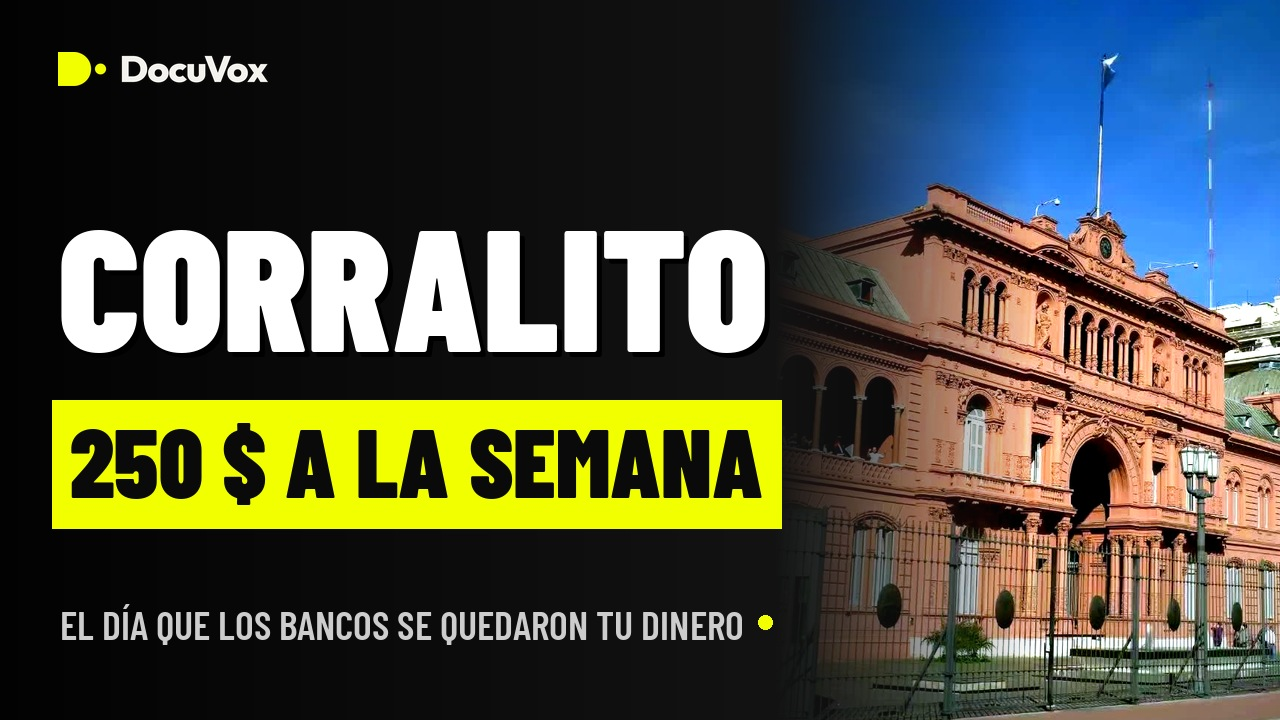
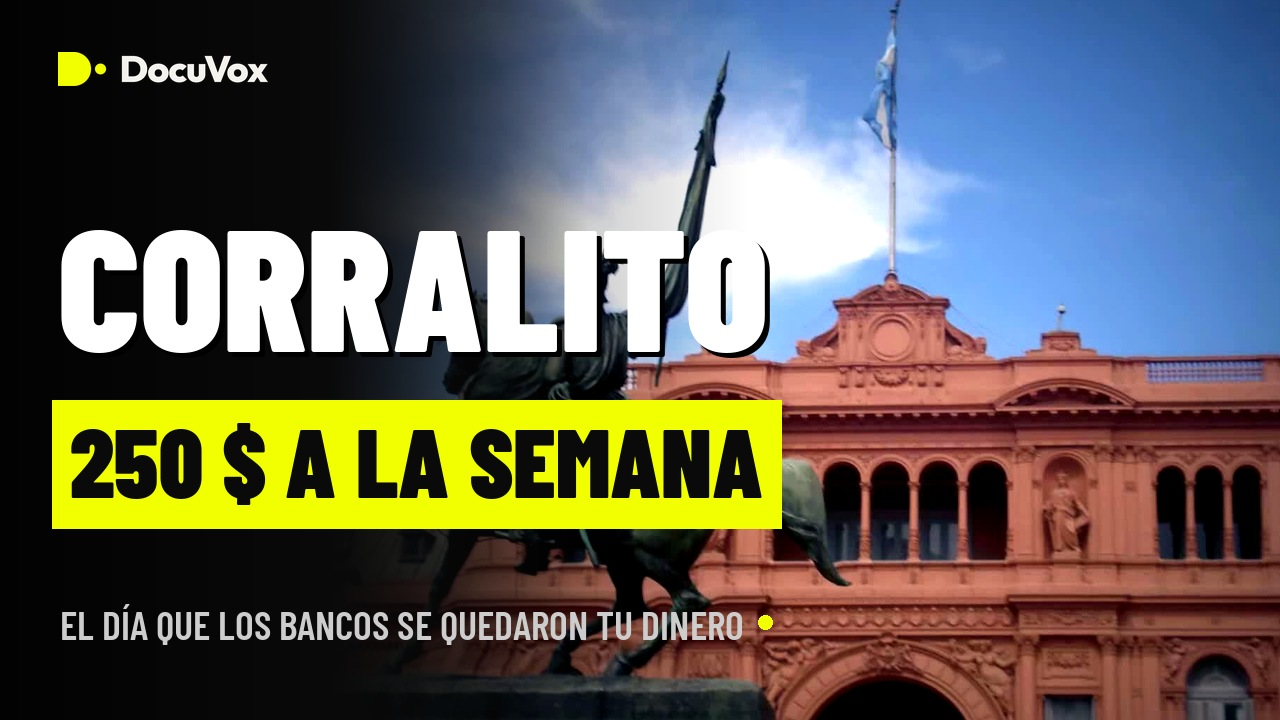
corralito: miniaturas finales (A con foto CC BY 2.0), paquete de publicación
Claude-Session: https://claude.ai/code/session_0114897aCysoTv45GBNQA442

diff --git a/jobs/corralito/paquete.py b/jobs/corralito/paquete.py
@@ -61,7 +61,7 @@ if len(desc) > 4950:   # límite de YouTube: créditos completos en el comentari
 com = '¿Tu familia vivió el corralito, o lo recuerdas de las noticias? Y si estás en España: ¿crees que algo así podría pasar aquí? Te leemos 👇\n\nCréditos de imagen (autor y licencia):\n' + '\n'.join(compact(l) for l in cred)
 com = com[:9800]
 
-pod = f"""1 de diciembre de 2001: Argentina descubre que solo puede sacar 250 pesos a la semana de su propia cuenta. Del uno a uno de Cavallo al Decreto 1570, de los cacerolazos al helicóptero de De la Rúa, de los cinco presidentes en dos semanas a la pesificación, el contagio a Uruguay y la gran pregunta: ¿podría pasar en España? Chipre, Grecia, las preferentes, el Banco Popular y el Fondo de Garantía de Depósitos. Documental sonoro de 45 minutos.
+pod = f"""1 de diciembre de 2001: Argentina descubre que solo puede sacar 250 pesos a la semana de su propia cuenta. Del uno a uno de Cavallo al Decreto 1570, de los cacerolazos al helicóptero de De la Rúa, de los cinco presidentes en dos semanas a la pesificación, el contagio a Uruguay y la gran pregunta: ¿podría pasar en España? Chipre, Grecia, las preferentes, el Banco Popular y el Fondo de Garantía de Depósitos. Documental sonoro de 44 minutos.
 
 {caps}
 

diff --git a/jobs/corralito/shorts.py b/jobs/corralito/shorts.py
@@ -107,7 +107,7 @@ def make(mp4, subs, out_dir, k, s, plat):
         p = f'{wd}/s{q}.png'; text_png(p, tx, 62, (255, 255, 255)); inputs += ['-loop', '1', '-i', p]
         chain += f";[{last}][{n}:v]overlay=0:0:enable='between(t,{a:.2f},{z:.2f})':shortest=1[w{q}]"; last = f'w{q}'; n += 1
     chain += f';[{last}]fade=t=out:st={dur - 0.6:.2f}:d=0.6,format=yuv420p[vout];[0:a]afade=t=in:st=0:d=0.3,afade=t=out:st={dur - 0.7:.2f}:d=0.7[aout]'
-    out = os.path.join(out_dir, f"crisis2008_short_{k + 1}_{plat}.mp4")
+    out = os.path.join(out_dir, f"corralito_short_{k + 1}_{plat}.mp4")
     subprocess.run(['ffmpeg', '-y', '-loglevel', 'error'] + inputs + ['-filter_complex', chain, '-map', '[vout]', '-map', '[aout]', '-t', f'{dur:.2f}',
                     '-c:v', 'libx264', '-preset', 'veryfast', '-crf', '21', '-r', '30', '-c:a', 'aac', '-b:a', '160k', '-movflags', '+faststart', out], check=True)
     return out

diff --git a/jobs/corralito/youtube.md b/jobs/corralito/youtube.md
@@ -1,0 +1,117 @@
+# El corralito argentino · paquete de YouTube
+
+**Título (recomendado):** El corralito argentino: el día que los bancos se quedaron tu dinero (¿podría pasar en España?)  (94 caracteres)
+**Alternativas A/B:** Corralito: el día que Argentina no pudo sacar su dinero del banco (¿y en España?) · Corralito 2001: 250 pesos a la semana, cinco presidentes y un helicóptero
+
+**Etiquetas** (445 caracteres): corralito, corralito argentina, corralito 2001, crisis argentina 2001, crisis de 2001, historia argentina, de la rua helicoptero, domingo cavallo, uno a uno, convertibilidad, 19 y 20 de diciembre, cacerolazo, pesificacion, corralon, duhalde, plan bonex, crisis bancaria uruguay 2002, corralito españa, puede haber un corralito en españa, fondo de garantia de depositos, preferentes, banco popular, chipre corralito, grecia corralito, crisis economica, documental, docuvox
+
+**Ajustes:** Educación · Español (España) · no creado para niños · sin promoción pagada · Uso de IA: No (escenas IA en grabado, no realistas) · capítulos automáticos desactivados · subtítulos corralito.srt · pantalla final 1 vídeo + suscribirse · prueba A/B de miniatura (A Casa Rosada · B De la Rúa)
+
+**Estudio de palabras clave (vidIQ):** corralito 19.962 búsquedas/mes (competencia baja, puntuación 63) · corralito argentina 8.883 (baja, 65) · historia argentina 17.184 (media) · cavallo 6.747 · crisis económica 6.586
+
+## Descripción (2071 caracteres)
+
+1 de diciembre de 2001. Argentina se despierta y descubre que solo puede sacar 250 pesos a la semana de su propia cuenta. Es el corralito. En veinte días habrá saqueos, estado de sitio, un presidente huyendo en helicóptero desde la azotea de la Casa Rosada y cinco presidentes en dos semanas. Después llegaron el corralón y la pesificación, y millones de ahorradores perdieron casi dos tercios de lo que tenían.
+
+Lo contamos día a día, como un thriller. Y al final, la pregunta que importa: ¿podría pasar algo así en España?
+
+En este documental:
+· Un peso, un dólar: la hiperinflación, el Plan Bonex y la convertibilidad de Cavallo
+· El sábado del decreto: el Decreto 1570 y los 250 pesos por semana
+· La caldera: cuasimonedas, cacerolas y la ola de saqueos
+· Estado de sitio: el 19 de diciembre de 2001
+· El helicóptero: la renuncia de De la Rúa el 20 de diciembre
+· Cinco presidentes: Puerta, Rodríguez Saá, Camaño, Duhalde y la suspensión de pagos
+· El corralón: la pesificación asimétrica, los amparos, los Boden y el trueque
+· Al otro lado del río: el contagio a Uruguay en 2002
+· ¿Y en España?: Chipre, Grecia, Bankia, las preferentes, el Banco Popular y el Fondo de Garantía de Depósitos
+
+Capítulos
+0:00 Introducción
+2:04 Un peso, un dólar
+9:49 El sábado del decreto
+14:24 La caldera
+17:27 Estado de sitio
+20:30 El helicóptero
+23:55 Cinco presidentes
+27:14 El corralón
+32:08 Al otro lado del río
+34:37 ¿Y en España?
+
+Fuentes principales: Boletín Oficial de la República Argentina (Ley 23.928, Ley 25.466, Decreto 36/1990, Decreto 1570/2001, Decreto 214/2002), Ley 17.523 de Uruguay, Banco Central de la República Argentina, INDEC, FMI, Eurogrupo, Junta Única de Resolución, FROB, Banco de España y hemeroteca de La Nación, Clarín, Página/12, El Observador, El País y EFE.
+
+Créditos de imagen y música (autor y licencia): en el comentario fijado.
+
+Este vídeo es divulgación, no asesoramiento financiero ni jurídico.
+
+Viene de: «Bankia: salió a bolsa y 10 meses después pidió el rescate». Suscríbete a DocuVox para el próximo caso.
+
+#corralito #Argentina #crisis2001
+
+## Comentario fijado (4735 caracteres)
+
+¿Tu familia vivió el corralito, o lo recuerdas de las noticias? Y si estás en España: ¿crees que algo así podría pasar aquí? Te leemos 👇
+
+Créditos de imagen (autor y licencia):
+Buenos Aires - Monserrat - Frente Casa Rosada — Galio (CC BY-SA 3.0)
+Casa Rosada, Buenos Aires, Argentina — Diego Delso (CC BY-SA 3.0)
+Fernando de la Rúa - con banda - 1999 — Unknown authorUnknown author (CC BY 2.0)
+Fernando de la Rúa Arturo Valenzuela — Embajada de EEUU, Buenos Aires (CC BY 2.0)
+Domingo Cavallo (cropped) — Victor Hugo Bugge (CC BY-SA 3.0)
+Casa Rosada, Buenos Aires, Argentina (4866197425 — Sergio Carvalho from Rio de Janeiro, RJ, (CC BY 2.0)
+Casa Rosada, Buenos Aires — Nathália Buzetto (CC BY-SA 4.0)
+Casa Rosada, Buenos Aires - 1 — Sombra Inquieta (CC BY-SA 4.0)
+ID 472 Palacio de Justicia de la Nación 5006 — Carlos Zito (CC BY-SA 3.0)
+Domingo Cavallo 02(cropped) — Cancillería Argentina (CC BY 2.0)
+Carlos-menem-1989-crop — Casa Rosada (CC BY 2.5 ar)
+Banco Central de la República Argentina — bennylope (CC BY-SA 2.0)
+Fernando de la Rúa con bastón y banda de preside — Unknown authorUnknown author (CC BY 2.0)
+Fernando de la Rúa con bastón y banda de preside — Unknown authorUnknown author (CC BY 2.0)
+Hugo Chávez y Fernando de la Rúa — Victor Buggé (CC BY 2.0)
+Domingo Cavallo 2001 (recortada) — Ministerio de Hacienda de la Nación Arge (CC BY 2.5 ar)
+Edificio del Ministerio de Economía de la Nación — Horacio Cambeiro (CC BY-SA 4.0)
+Edificio del Ministerio de Economía de la Nación — Horacio Cambeiro (CC BY-SA 4.0)
+Hall de entrada del Palacio de Hacienda — Ministerio de Economía (CC BY 4.0)
+Ciudad de Mendoza, la cuarta ciudad más poblada  — Itsmemarttin (CC BY-SA 3.0)
+Domingo Felipe Cavallo — Ministerio de Hacienda de la Nación Arge (CC BY 2.5 ar)
+Alberto Fernández - Raúl Alfonsín — Pablo-flores (CC BY 2.0)
+Alfonsín y Cristina — No mention (CC BY-SA 2.0)
+Casa Rosada - Buenos Aires (8556504814) — Cyro A. Silva from Rio de Janeiro, Brasi (CC BY 2.0)
+Casa Rosada - The Casa Rosada from Yrigoyen Stre — Juan Geracaris (CC BY 2.0)
+Casa Rosada Buenos Aires — Dragan (CC BY 3.0)
+Buenos Aires-Plaza de Mayo-Overview — Barcex (CC BY-SA 2.5)
+Atardecer en el Congreso de la Nación Argentina — Miguel César (CC BY-SA 3.0)
+Congreso de la Nación Argentina - Cúpula — Gelpgim22 (Sergio Panei Pitrau) (CC BY 3.0)
+Congreso de la Nación Argentina - Detalle del al — Gelpgim22 (Sergio Panei Pitrau) (CC BY 3.0)
+Congreso de la Nación Argentina - Hemiciclo — Gelpgim22 (Sergio Panei Pitrau) (CC BY 3.0)
+Mensaje de De la Rúa con Cavallo (cropped) — Victor Buggé (CC BY 2.0)
+Avenida de Mayo, Buenos Aires, Argentina - panor — Paulo JC Nogueira (CC BY-SA 3.0)
+Carlos Menem y Ramón Puerta — Víctor Bugge (CC BY 2.0)
+Congreso de la Nación Argentina - Ornamento — Gelpgim22 (Sergio Panei Pitrau) (CC BY 3.0)
+Adolfo Rodríguez Saa — Presidencia de la Nación (CC BY 2.0)
+Adolfo Rodríguez Saá-2 — Unknown authorUnknown author (CC BY 2.0)
+José María Aznar impone al diputado Enrique Múgi — Ministerio de la Presidencia. Gobierno d (Attribution)
+José María Aznar inaugura el I Mercado Iberoamer — Ministerio de la Presidencia. Gobierno d (Attribution)
+Ecamano — Unknown authorUnknown author (CC BY-SA 4.0)
+Eduardo Camaño (2) — Presidencia de la Nacion Argentina (CC BY 2.0)
+Carlos Menem y Eduardo Duhalde en acto en Ensena — Víctor Bugge (CC BY 2.0)
+Duhalde23012007 — Fabio Pozzebom/ABr (CC BY 3.0 br)
+Ciudad Mar del Plata, Argentina — PABLO GONZALEZ (CC BY-SA 2.0)
+Mar del Plata City — EduWiki (CC BY-SA 4.0)
+Palacio de Justicia de la Nación — Jrivell (CC BY-SA 3.0)
+Palacio de Justicia de la Nación 01 — GameOfLight (CC BY-SA 3.0)
+Palacio de Justicia de la Nación 02 — GameOfLight (CC BY-SA 3.0)
+Calle Washington en Ciudad Vieja, Montevideo, Ur — Intendencia de Montevideo (CC BY-SA 4.0)
+Ciudad Vieja de Montevideo aéreo — Fedaro (CC BY-SA 4.0)
+Jorge Batlle — Roosewelt Pinheiro/ABr (CC BY 3.0 br)
+2016 Cerrito 351, entre Solís y Zabala Sede cent — Felipe Restrepo Acosta (CC BY-SA 4.0)
+2016 Montevideo Banco de la República Oriental d — Felipe Restrepo Acosta (CC BY-SA 4.0)
+Bank of Cyprus huge offices in Aglandjia suberb  — Petros3 (CC BY-SA 3.0)
+Mahatma Gandhi Statue next to Cyprus Parliament  — NicosiaRepublicCyprus (CC BY-SA 3.0)
+Paul Krugman-press conference Dec 07th, 2008-8 — Prolineserver (talk) (CC BY-SA 3.0)
+Paul Krugman 2 BBF 2010 Shankbone — David Shankbone (CC BY 3.0)
+Paul Krugman 3 BBF 2010 Shankbone — David Shankbone (CC BY 3.0)
+Paul Krugman BBF 2010 Shankbone — David Shankbone (CC BY 3.0)
+European Central Bank - building under construct — Norbert Nagel (CC BY-SA 3.0)
+European Central Bank - building under construct — Norbert Nagel (CC BY-SA 3.0)
+European Central Bank - building under construct — Norbert Nagel (CC BY-SA 3.0)
